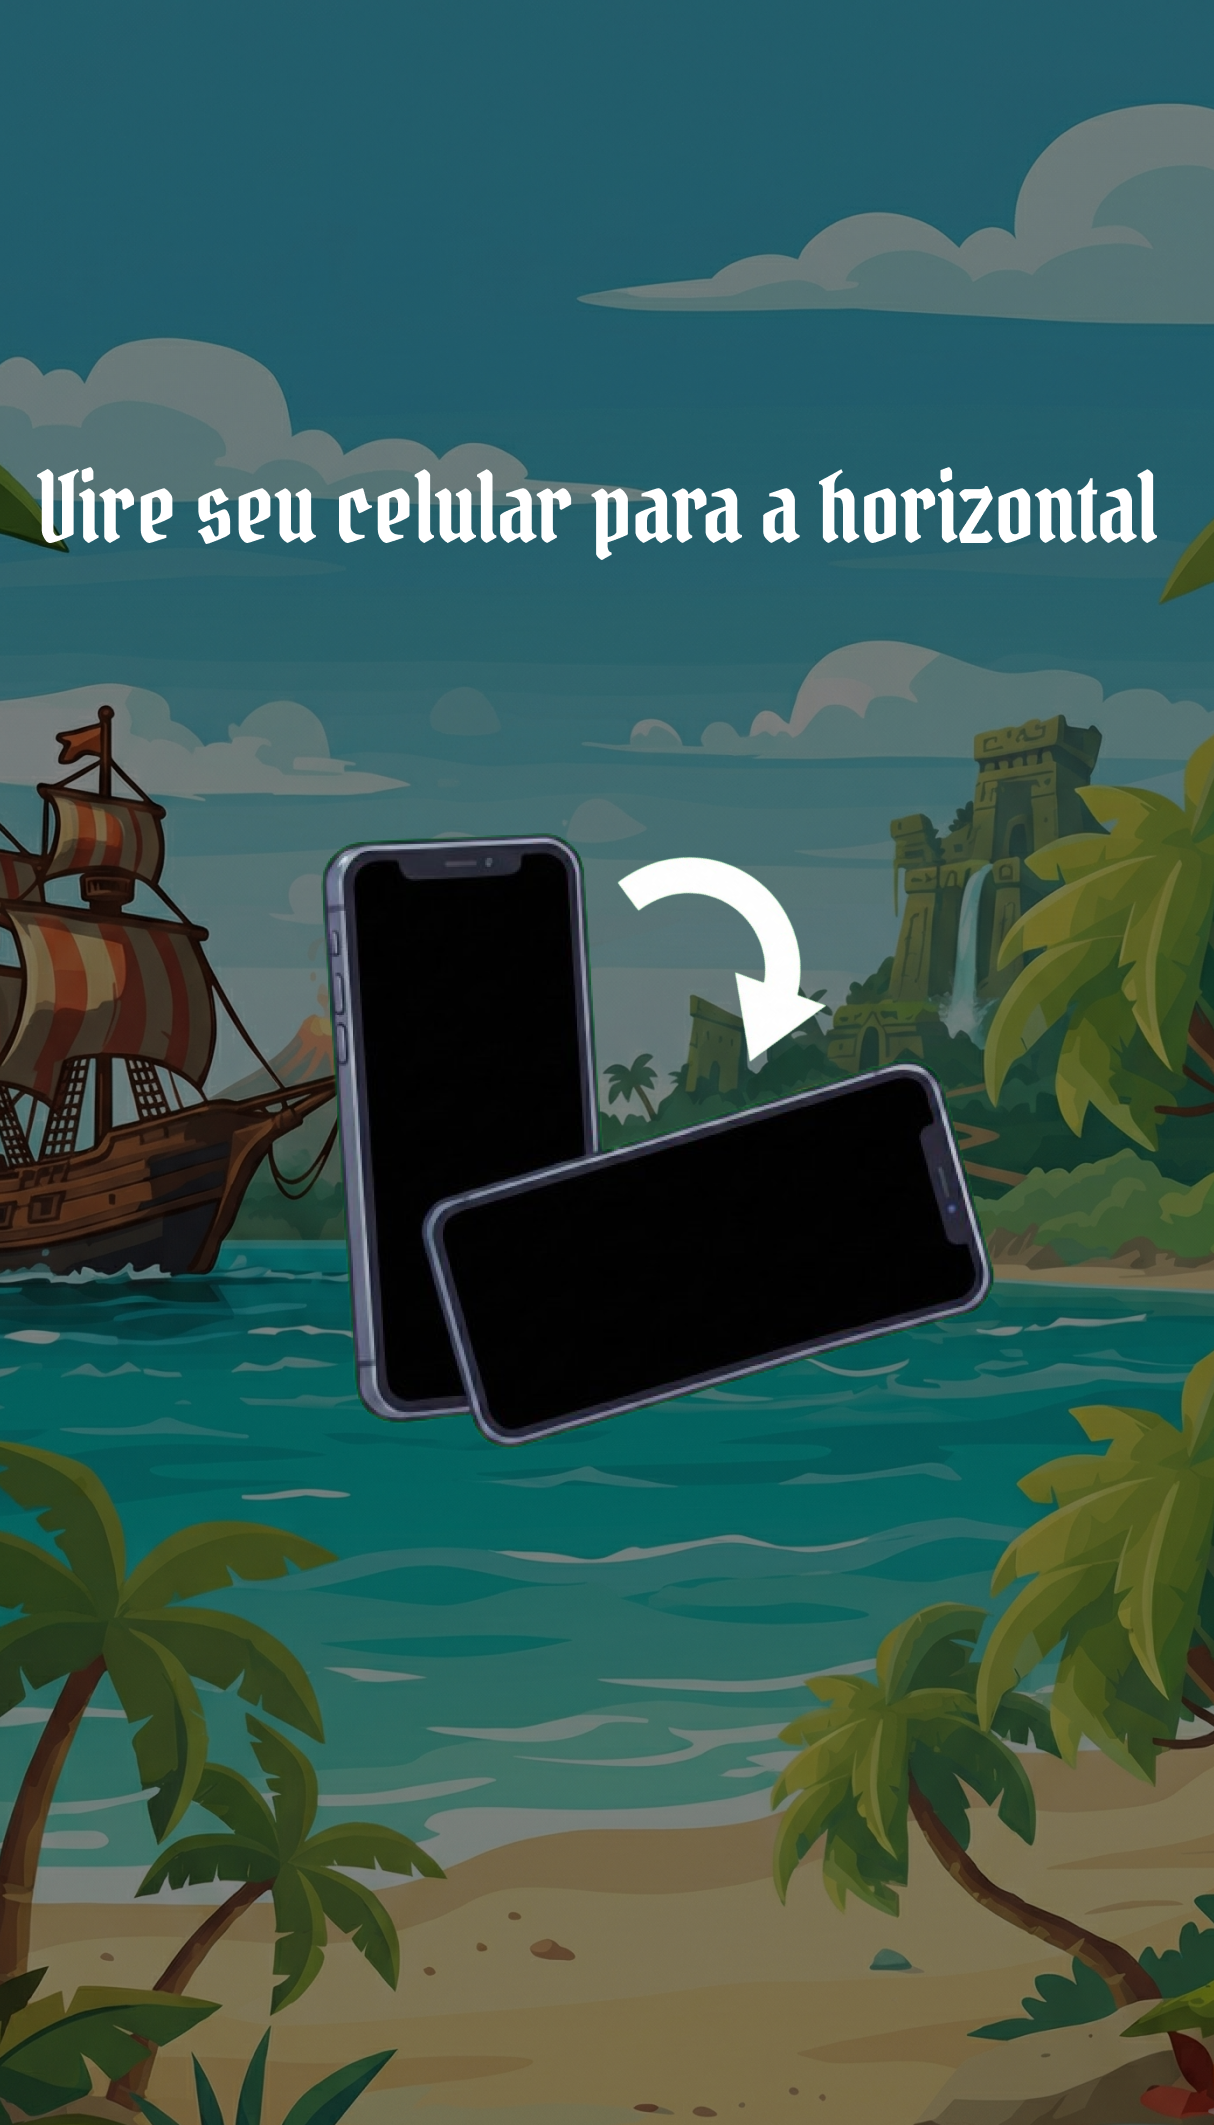
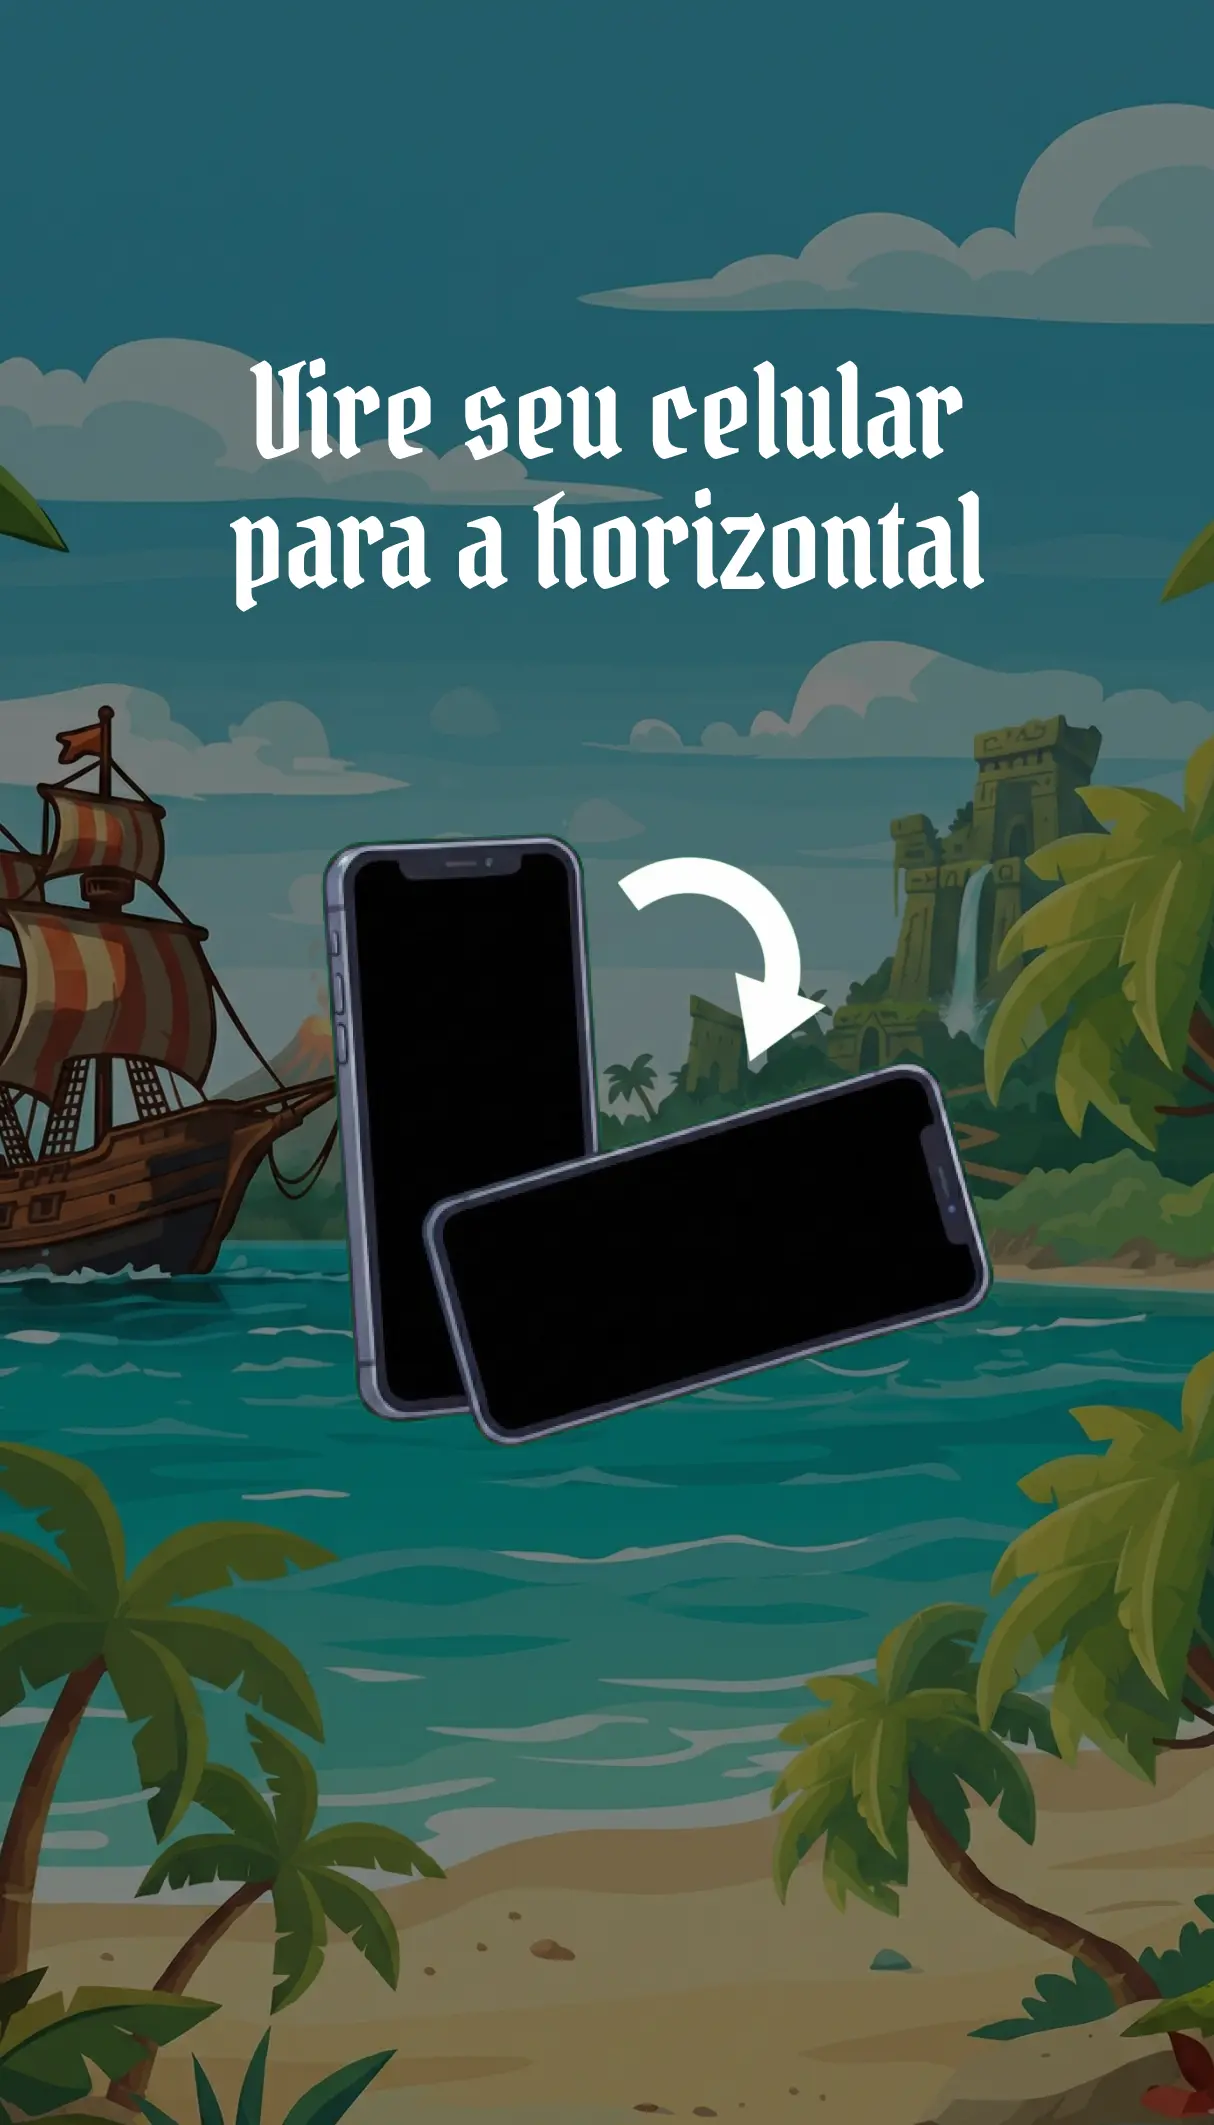
fix: mudando imagem de rotação de tela e corrigindo animação de tela de derrota e vitória

Changed region(s): [[0.0305, 0.1553, 0.9753, 0.3106]]

diff --git a/components/styles/tabuleiro.css b/components/styles/tabuleiro.css
@@ -216,7 +216,6 @@
     visibility: hidden;
     pointer-events: none;
     transform: scale(0.8);
-    transition: opacity 0.3s ease-out, transform 0.3s cubic-bezier(0.18, 0.89, 0.32, 1.28), visibility 0.3s;
 }
 
 .tela_final_imagem.escondido {
@@ -231,12 +230,12 @@
     visibility: visible;
     pointer-events: auto;
     transform: scale(1);
+    transition: opacity 0.3s ease-out, transform 0.3s cubic-bezier(0.18, 0.89, 0.32, 1.28), visibility 0.3s;
 }
 
 .derrota_conteudo,
 .vitoria_conteudo {
     opacity: 0;
-    transition: opacity 0.4s ease 0.1s, transform 0.4s ease 0.1s;
     transform: translate(-50%, -50%);
 }
 
@@ -244,6 +243,7 @@
 .tela_final_imagem.mostrar .vitoria_conteudo {
     opacity: 1;
     transform: translate(-50%, -50%);
+    transition: opacity 0.4s ease 0.1s, transform 0.4s ease 0.1s;
 }
 
 .tela_final_imagem .fundo_derrota,

diff --git a/index.html b/index.html
@@ -151,7 +151,7 @@
                         <div class="derrota_conteudo">
                             <div id="moedas_derrota" class="moedas_final"></div>
 
-                            <button onclick="tocarSomClique(); esconderTelaDerrota(); reiniciarJogo()"
+                            <button onclick="esconderTelaDerrota(); tocarSomClique(); reiniciarJogo();"
                                 class="reiniciar_jogo" id="reiniciar_jogo_derrota">
                                 <div class="reiniciar_imagem">
                                     <img src="game_assets/tabuleiro/iconebarra.webp">

diff --git a/components/scripts/index.js b/components/scripts/index.js
@@ -374,12 +374,12 @@ document.addEventListener('DOMContentLoaded', () => {
     let tempoInicial;
 
     window.reiniciarJogo = function () {
-        casaAtual = 1;
+        casaAtual = 11;
         moedas = 0;
-        vidas = 1;
+        vidas = 3;
         indice = 0;
         tempoInicial = Date.now();
-
+        
         const posInicial = posicoesDasCasas[1];
         if (posInicial) {
             protagonista.style.top = posInicial.top;
